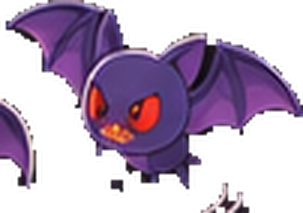
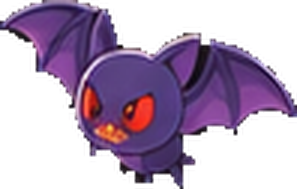
Adjust distant backgrounds, stage pursuers and floating mobile controls [skip ci]

diff --git a/tools/integrate_late_stage_assets.py b/tools/integrate_late_stage_assets.py
@@ -8,7 +8,7 @@ Usage: python tools/integrate_late_stage_assets.py path/to/pack.zip
 from pathlib import Path
 from zipfile import ZipFile
 import sys
-from PIL import Image, ImageDraw, ImageFilter
+from PIL import Image, ImageDraw, ImageFilter, ImageChops
 
 ROOT = Path(__file__).resolve().parents[1]
 PREFIX = 'Kiki_stage_1-6_to_1-8_split/'
@@ -107,6 +107,25 @@ def remove_board(image, stage):
  image.putalpha(alpha)
  return image
 
+def isolated_actor(image):
+ # Adjacent wing fragments and annotation strokes are separate alpha islands.
+ alpha=image.getchannel('A'); px=alpha.load(); seen=set(); components=[]
+ for y in range(image.height):
+  for x in range(image.width):
+   if px[x,y]<100 or (x,y) in seen:continue
+   stack=[(x,y)];seen.add((x,y));component=[]
+   while stack:
+    point=stack.pop();component.append(point)
+    for xx,yy in ((point[0]-1,point[1]),(point[0]+1,point[1]),(point[0],point[1]-1),(point[0],point[1]+1)):
+     if 0<=xx<image.width and 0<=yy<image.height and (xx,yy) not in seen and px[xx,yy]>=100:
+      seen.add((xx,yy));stack.append((xx,yy))
+   components.append(component)
+ mask=Image.new('L',image.size,0);mp=mask.load()
+ for point in max(components,key=len):mp[point]=255
+ mask=mask.filter(ImageFilter.MaxFilter(3))
+ image.putalpha(ImageChops.multiply(alpha,mask))
+ return image
+
 with ZipFile(sys.argv[1]) as archive:
  for stage in ('1-6','1-7','1-8'):
   path = ROOT/'assets'/'split'/stage/'background'/'background.png'
@@ -142,6 +161,7 @@ with ZipFile(sys.argv[1]) as archive:
     mask=Image.new('L',image.size,0)
     ImageDraw.Draw(mask).polygon([(32,1),(49,10),(53,34),(65,32),(73,57),(59,66),(14,66),(3,44),(12,37),(20,45),(23,14)],fill=255)
     image.putalpha(mask)
+   if stage=='1-8' and name in ('bat_attack','bat_move'): image=isolated_actor(image)
    bounds=image.getbbox()
    if not bounds: raise ValueError(name)
    image=image.crop(bounds)

diff --git a/docs/store-listing.md b/docs/store-listing.md
@@ -276,7 +276,7 @@ godot --path . --rendering-method gl_compatibility --rendering-driver opengl3   
 - [x] `docs/privacy-policy.md` の連絡先を埋めた（a3506124@gmail.com）
 - [x] GitHub Pages を有効にし、ポリシーURLが**ブラウザで開けた**
 - [ ] ✅ 署名鍵が本番のもので、Worker に対になる秘密鍵が入っている
-- [ ] ✅ バージョンが 0.9.5 / versionCode 32 で全箇所一致している
+- [ ] ✅ バージョンが 0.9.6 / versionCode 33 で全箇所一致している
 - [ ] ✅ 課金プラグインがピン留めされ、CIで有効
 - [ ] Play Console: `full_unlock` を**管理対象アイテム（非消費型）**として作成し、**有効化**した
 - [ ] Play Console: サービスアカウントを作り、Worker に `GOOGLE_SERVICE_ACCOUNT` を入れた
@@ -310,3 +310,10 @@ App Review が 3.1.1 として扱う可能性は残る。
 ## 0.9.5 更新内容
 
 ステージ1-6〜1-8の背景・敵・足場・罠を添付素材へ更新。横画面の実プレイと協力ギミックの動作を検証。
+
+## 0.9.6 更新内容
+
+1-7・1-8の背景を引きの表示に調整しました。
+各ステージに素材を使った追跡敵を配置しました。
+初期設定の移動スティックが左下の押した位置に表示されるようになりました。
+1台モードのジャンプを大きくし、右下に配置。足場・狙撃はその上に配置しました。

diff --git a/docs/split-assets.md b/docs/split-assets.md
@@ -79,3 +79,21 @@ both packs), and `check_scripts`. Normal gameplay captures are 1280x720,
 including HUD, in `build/landscape/stage-1-{6,7,8}.png`; additional mid-route
 captures end in `-detail.png`. The menu cards intentionally remain portrait.
 Run `tools/capture_stage_cards.tscn -- --late-assets-only` to recapture them.
+
+### 0.9.6 chase and mobile controls
+
+Tower and cave distant paintings now occupy 78% of viewport height rather than
+being cover-scaled across the entire viewport. Existing stage 1-2/3/4 pursuers
+use the matching chase art. Stage 1-5/6/7/8 add slow, shoot-stunnable pursuing
+lava golem, mummy, mine and bat visuals from the supplied sheets. These wait
+until the runner moves 120 pixels, then grant four seconds before pursuit.
+
+The default stick captures the lower left quadrant and anchors at finger down.
+Only its owning finger can move/release it. Mirrored seating mirrors that zone.
+Moving the stick in the layout editor explicitly selects a fixed anchor; reset
+restores floating input. Shared jump radius is 14% of screen height, with two
+smaller tools above it. Existing customized placements remain supported.
+
+Validate with `test/floating_controls_probe.tscn`, `test/touch_feel_probe.tscn`,
+`test/remote_jump_probe.tscn` and the stage/asset probes. Gameplay captures now
+force the touch HUD so the shipped defaults can be inspected on desktop.
